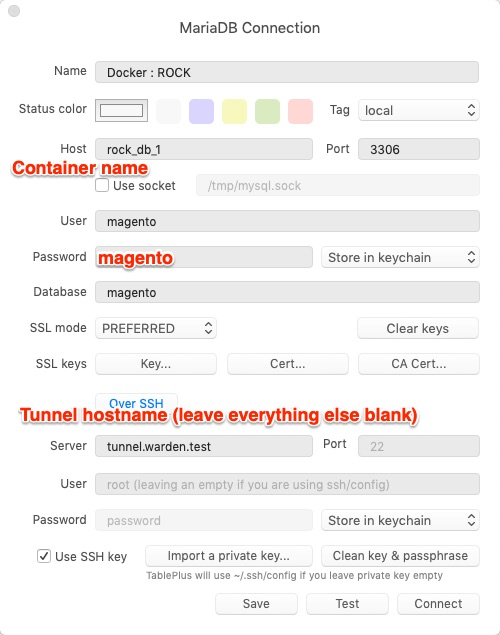
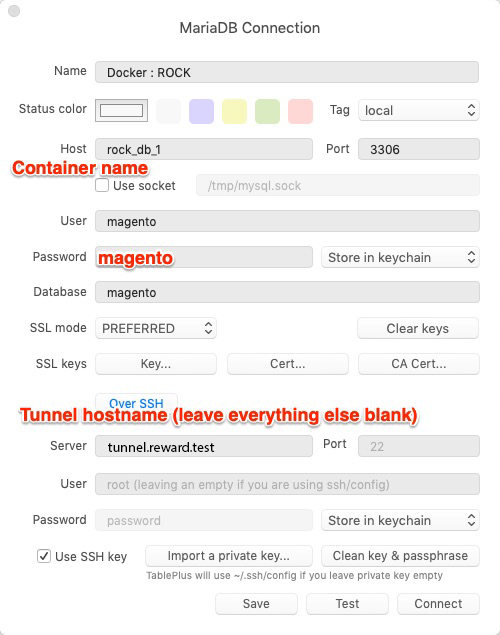
docs: update db connection docs

diff --git a/docs/configuration/db.md b/docs/configuration/db.md
@@ -10,6 +10,8 @@
 | MySQL Password                 | `magento`                                                        |
 | MySQL Database                 | `magento`                                                        |
 | SSH Host, Proxy Host, Server   | `tunnel.reward.test`                                             |
+| SSH/Proxy/Server Port          | `2222`                                                           |
+| SSH/Proxy/Server User          | `user`                                                           |
 
 ### TablePlus
 ![TablePlus Connection Info](screenshots/tableplus-connection.png)
@@ -18,8 +20,8 @@
 ![Sequel Pro Connection Info](screenshots/sequel-pro-connection.png)
 
 ### PhpStorm
-![PHPStorm Connection Config](screenshots/66998481-a0062100-f0d4-11e9-8cc0-a5691fee59c5.png)
-![PHPStorm Tunnel Config](screenshots/66998483-a09eb780-f0d4-11e9-9643-8fe63dd62aad.png)
+![PHPStorm Connection Config](screenshots/phpstorm-connection-config.png)
+![PHPStorm Tunnel Config](screenshots/phpstorm-tunnel-config.png)
 
 ### Navicat for MySQL
 ![Navicat Connection Config](screenshots/navicat-connection-config.png)
